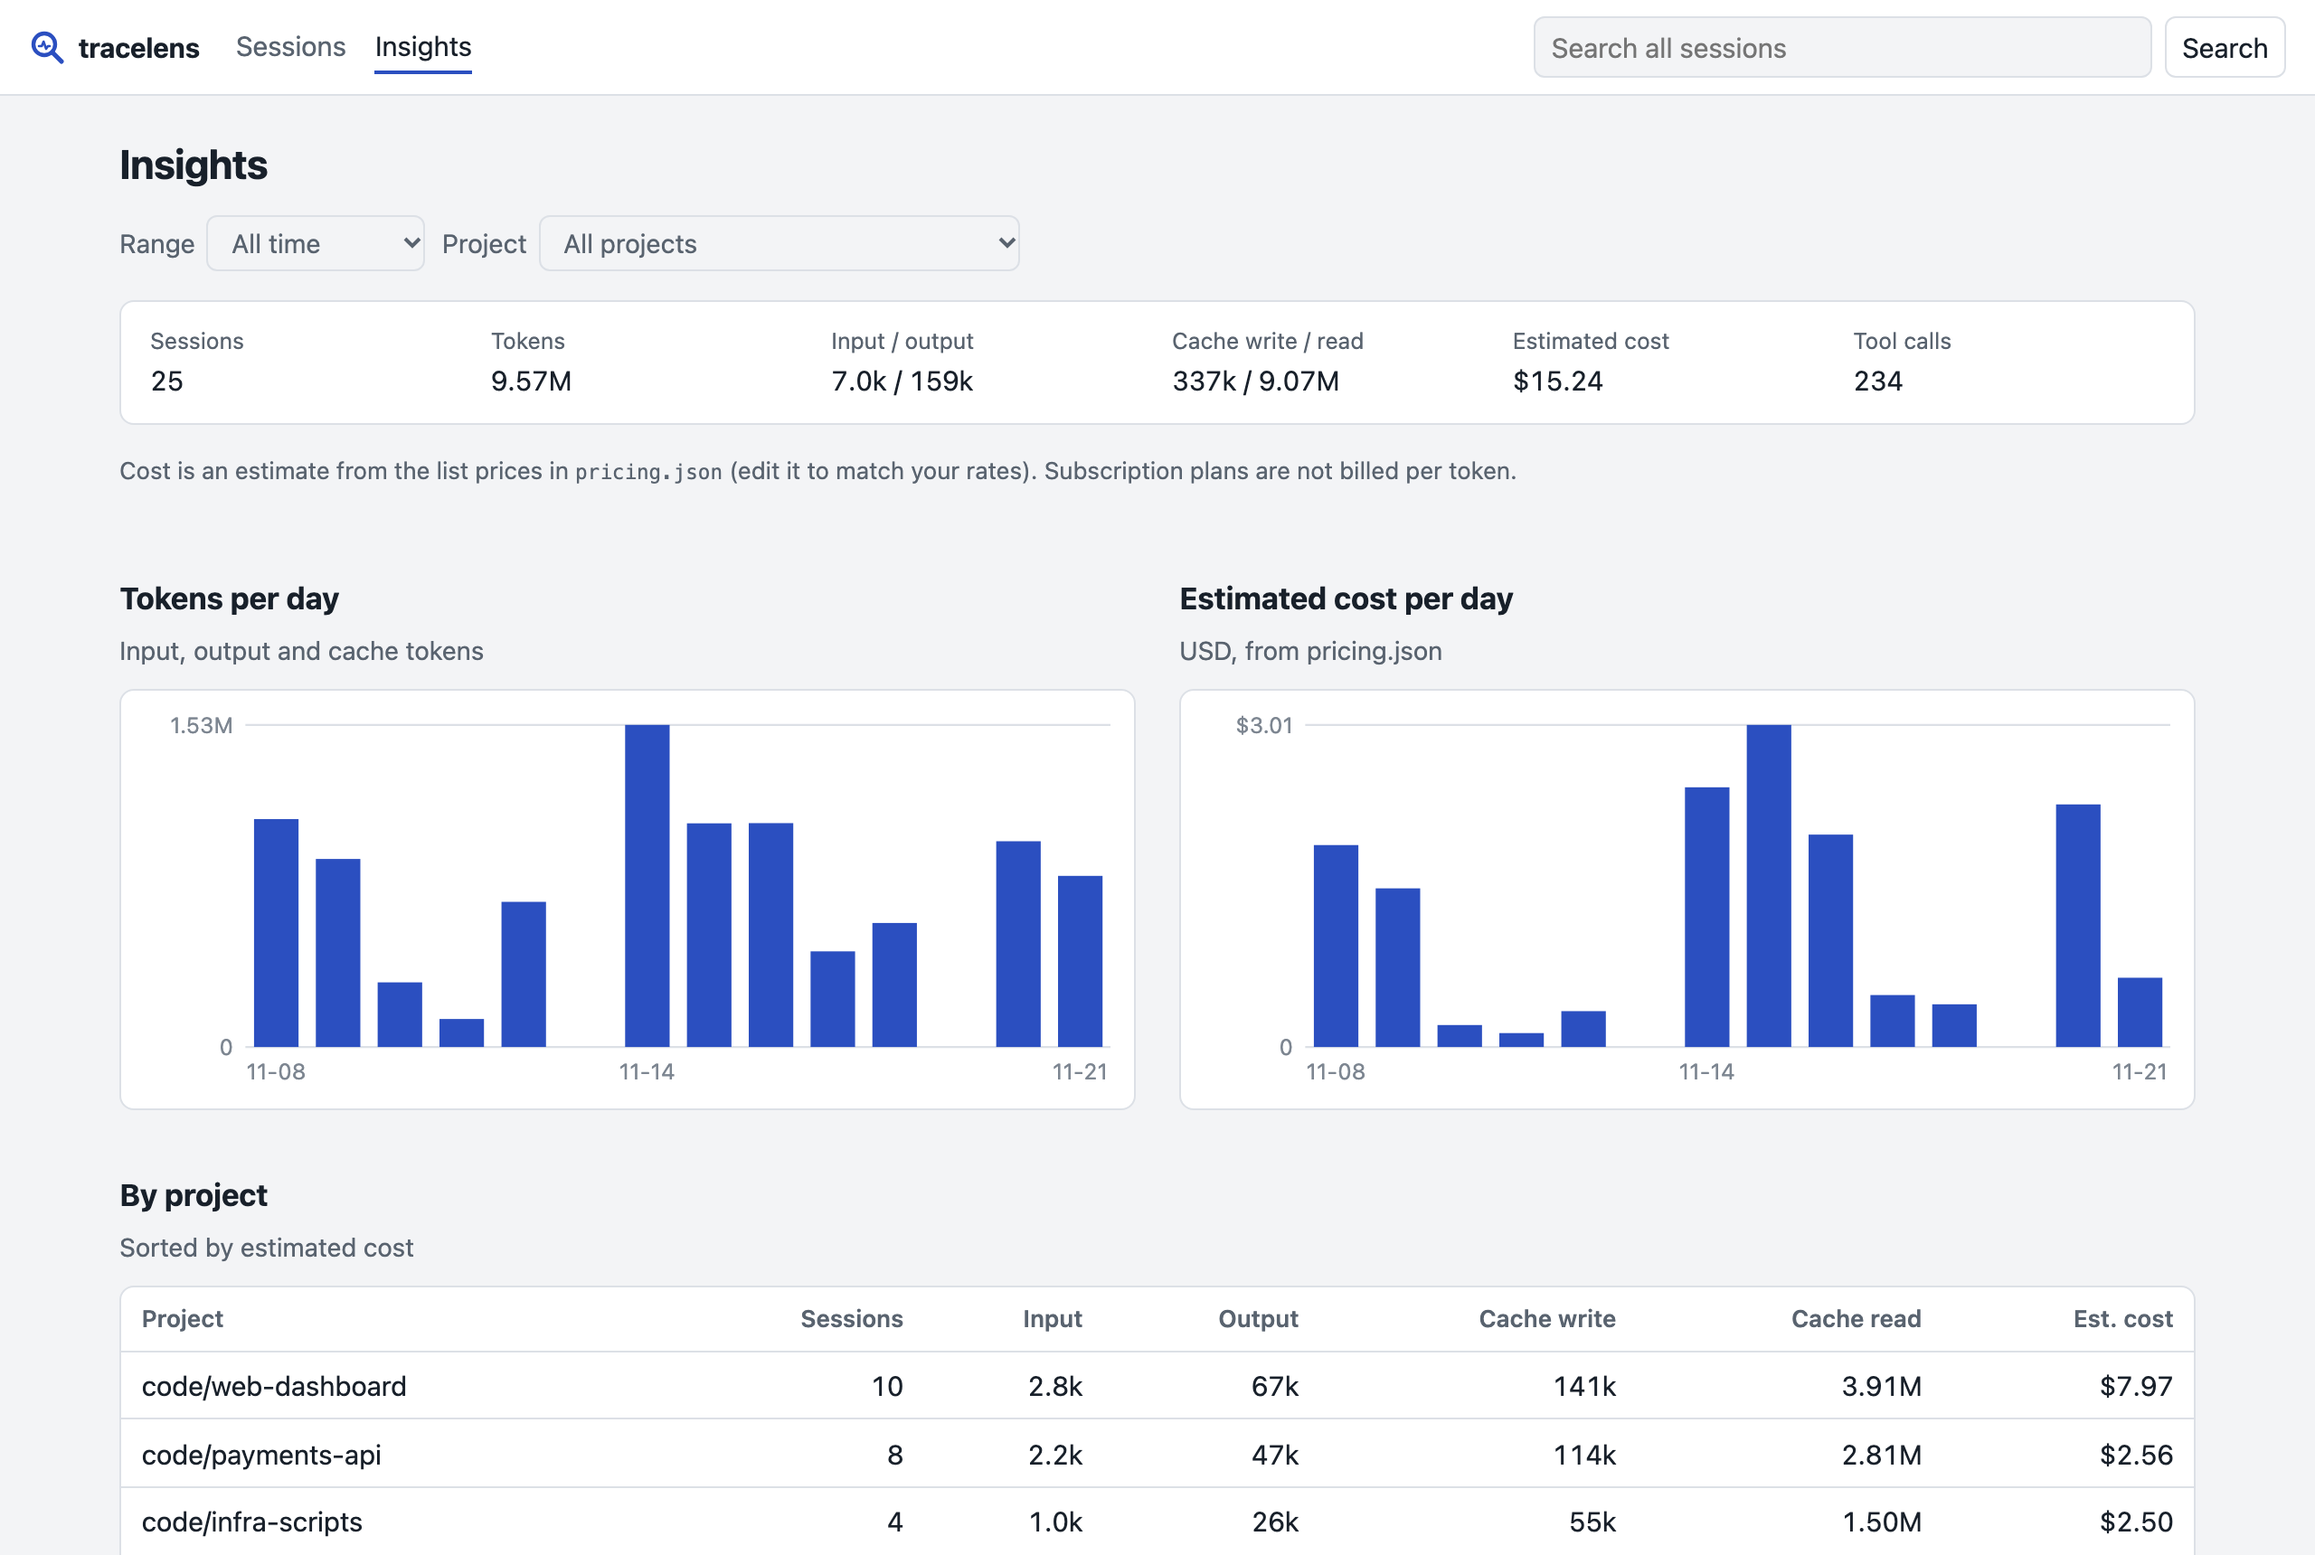
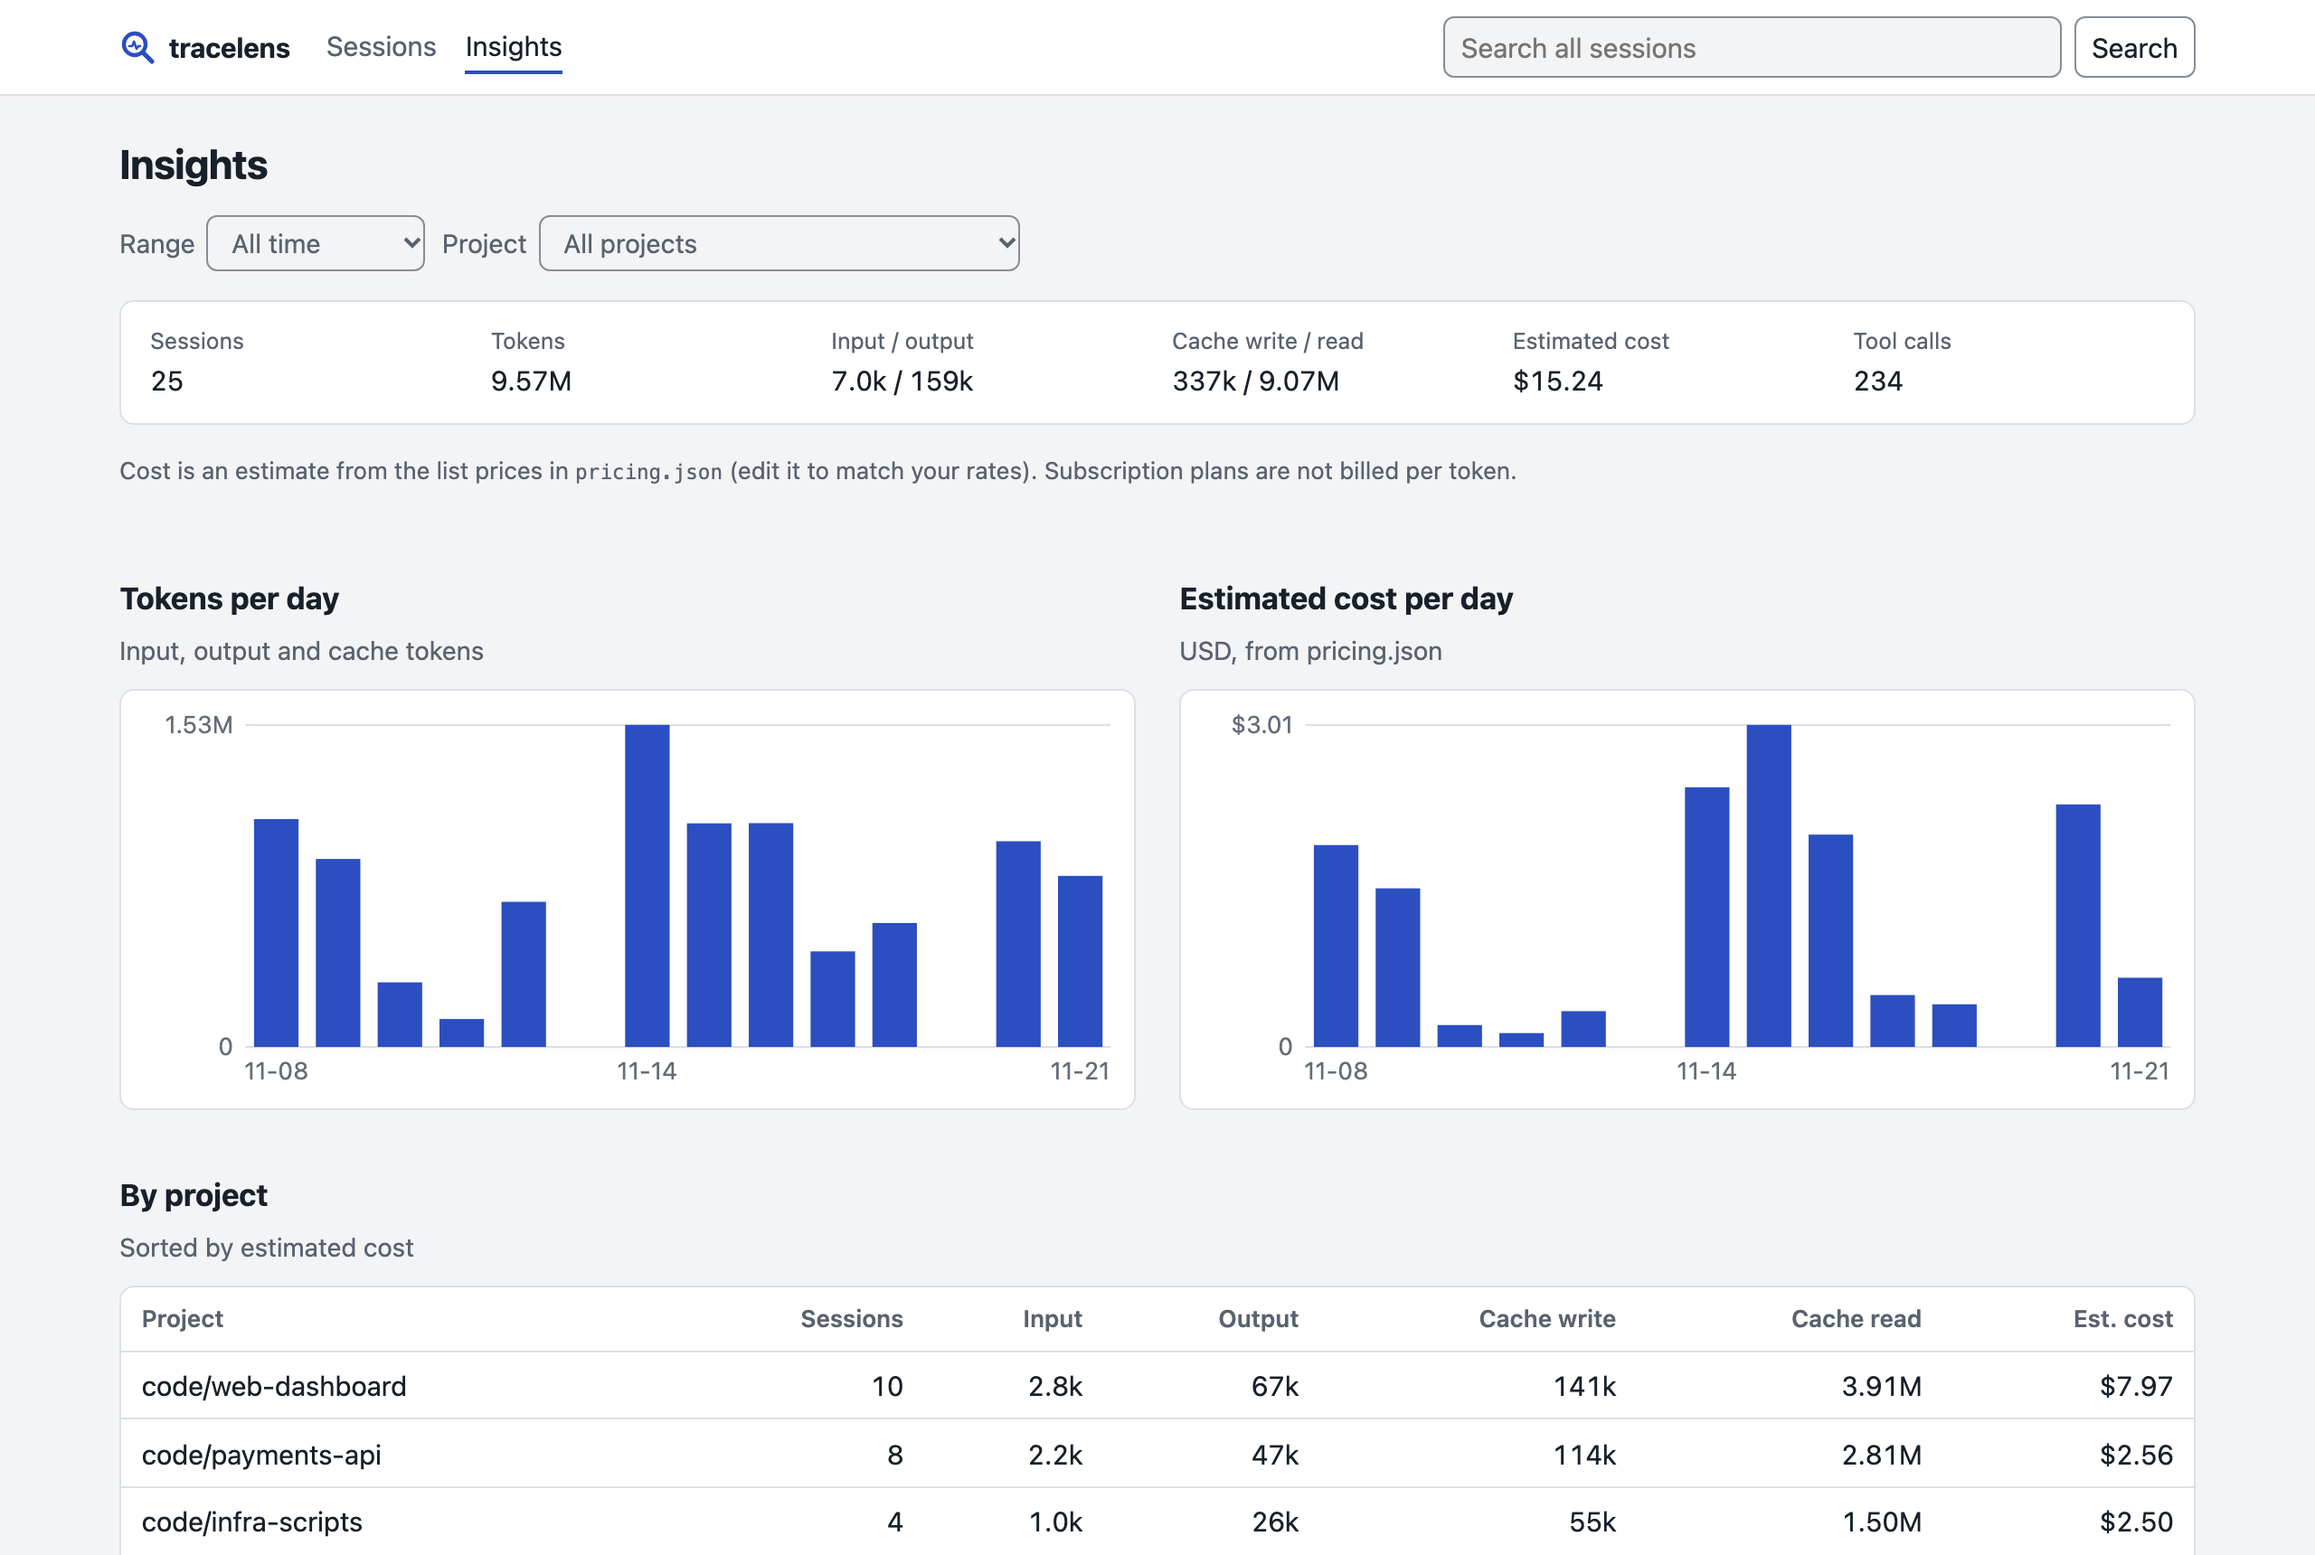
Refresh screenshots from the running demo, add a reply screenshot; README and changelog

diff --git a/README.md b/README.md
@@ -27,11 +27,13 @@ No Claude Code logs on this machine, or want to look first? `npm run demo` gener
 
 - **Session list**: project, start time, duration, models, token totals, estimated cost, tool calls and errors. Filter by project, sort by date, duration, tokens or cost.
 - **Full-text search** across every prompt, reply, tool input and tool output, including subagents. Each hit links to the exact spot in the transcript.
-- **Transcript view**: user turns, assistant text, collapsible thinking, tool calls collapsed to one line (tool, main argument, duration bar) that expand to full input and output. Subagent runs are nested under the Task call that started them. Failed tool calls and API errors are marked in red, and the header links to the first error.
+- **Transcript view**: user turns, assistant replies rendered as Markdown (headings, lists, tables, code blocks; links only for http(s), images never loaded), collapsible thinking, tool calls collapsed to one line (tool, main argument, duration bar) that expand to full input and output. Subagent runs are nested under the Task call that started them. Failed tool calls and API errors are marked in red, and the header links to the first error.
 - **Insights**: tokens and estimated cost per day, per project and per model; most-used tools with error counts and timings; the slowest tool calls; the files edited most often. Filter by time range and project.
 - **Export** a session as Markdown or as a single self-contained HTML file, from the CLI or the session page, optionally with paths and secrets redacted.
 - **Defensive parsing**: records it does not recognise, and lines that are not valid JSON, are shown raw in the transcript instead of breaking the page.
-- Light and dark themes (follows your system), works on a phone-sized screen, no JavaScript frameworks and no runtime dependencies.
+- Light and dark themes (follows your system), keyboard-friendly, AA text contrast, and a card layout for the session list on phone-sized screens. No JavaScript frameworks and no runtime dependencies.
+
+![The end of a transcript: tool calls with timing bars, a failed Bash call marked in red, and the final reply rendered as Markdown](docs/screenshots/session-reply.png)
 
 ![Insights page: tokens and estimated cost per day, and usage by project](docs/screenshots/insights.png)
 
@@ -79,7 +81,7 @@ It is pattern matching, so read an export before you share it.
 ## How it works
 
 - **Discovery.** Claude Code keeps one JSONL file per session in `~/.claude/projects/<encoded-folder>/<session-id>.jsonl`. Subagent logs live either inline (records with `isSidechain: true`), in `<session-id>/subagents/*.jsonl`, or in `agent-*.jsonl` files next to the sessions. tracelens handles all three.
-- **Parsing** ([`src/claude.ts`](src/claude.ts)) turns records into a small normalized model ([`src/types.ts`](src/types.ts)): user and assistant messages, thinking, tool calls paired with their results, system events, and raw items for anything else. Claude Code writes one line per content block and repeats the message's usage on each, so usage is counted once per API message id. Claude Code's own bookkeeping is kept out of the way: `file-history-snapshot` records (checkpoint backups) are skipped, `<synthetic>` messages it writes locally add no usage, post-compaction summaries are shown as system notes rather than user turns, and files that hold nothing but summary lines are not listed as sessions. A tool call's duration is the time between the call and its result. A subagent is attached to the Task call whose `prompt` matches the subagent's first message; subagents that match nothing are listed at the end of the transcript.
+- **Parsing** ([`src/claude.ts`](src/claude.ts)) turns records into a small normalized model ([`src/types.ts`](src/types.ts)): user and assistant messages, thinking, tool calls paired with their results, system events, and raw items for anything else. Claude Code writes one line per content block and repeats the message's usage on each, so usage is counted once per API message id. Claude Code's own bookkeeping is kept out of the way: `file-history-snapshot` records (checkpoint backups) are skipped, `<synthetic>` messages it writes locally add no usage, post-compaction summaries are shown as system notes rather than user turns, and files that hold nothing but summary lines are not listed as sessions. A tool call's duration is the time between the call and its result. A subagent is attached to the Task call whose `prompt` matches the subagent's first message (in start order, so repeated identical prompts pair up correctly); subagents that match nothing are listed at the end of the transcript.
 - **Serving** ([`src/server.ts`](src/server.ts)) uses Node's `http` module and renders HTML on the server. Parsed sessions are cached and a file is re-read only when its size or modification time changes, so new sessions show up on reload.
 - **Read-only.** Log files are opened for reading only. `export -o` refuses to write inside the log folder or to any `.jsonl` file.
 - **Local only.** The server listens on 127.0.0.1, answers only requests addressed to `127.0.0.1`, `localhost` or `[::1]` on its own port (which blocks DNS-rebinding pages), only accepts GET, and sends a strict Content-Security-Policy. All transcript text is HTML-escaped. The page loads no fonts, scripts or images from the internet.
@@ -105,7 +107,6 @@ The test fixtures in `test/fixtures/projects` are hand-made and cover split assi
 ## Roadmap
 
 - Codex CLI adapter.
-- Render Markdown in assistant messages (shown as plain text today).
 - Show rewound or edited conversation branches as a tree instead of file order.
 - A search index for very large histories (search is a linear scan today).
 - CSV export of the insights tables.

diff --git a/CHANGELOG.md b/CHANGELOG.md
@@ -4,6 +4,33 @@ All notable changes to this project are documented here. The format follows [Kee
 
 ## [Unreleased]
 
+### Added (round 2, design pass)
+
+- Assistant replies render as Markdown in the web UI and the HTML export (`src/mdhtml.ts`): paragraphs, headings, fenced code, nested lists, quotes, rules, pipe tables, inline code, bold, italic and http(s) links. All text is escaped; other link schemes stay as text; images are never loaded (alt text only). User prompts are still shown exactly as typed.
+- Session list: a "Sort by" select next to the project filter; under 640px wide each session becomes a stacked card (title, project and models, start time, then labelled duration/tokens/cost/tools/errors) instead of a table cut off at the right edge.
+- Skip-to-content link.
+
+### Changed (round 2, design pass)
+
+- Faint text (timestamps, durations, chart labels) and form-control borders now meet WCAG AA contrast in light and dark themes (axe-core reported 50 contrast failures on the session page; it now reports none on any page in either theme).
+- Header content lines up with the page column instead of the window edges.
+- Tool-call "Input"/"Output" labels are no longer `<h4>` headings (they broke the heading outline with hundreds of entries).
+- The sorted column header carries `aria-sort`.
+- Model names in the insights tables stay on one line (they broke into one word per line on phones); chart labels are 1px larger.
+- A server error shows a normal page with the message instead of a plain-text response.
+- Demo data: the final assistant message uses Markdown, so the demo shows the rendering.
+
+### Fixed (round 2)
+
+- Two Task calls with the same prompt no longer swap subagents: subagents are matched in start-time order, not file-name order.
+- An old-layout `agent-*.jsonl` whose first line is longer than 64 KiB is now attached to its session (the first line is read in full, up to 16 MiB).
+
+### Notes for the next person (round 2, design pass)
+
+- Verified with Playwright screenshots at 1280px and 390px, light and dark (`scripts/screenshots.mjs`, now also `session-reply.png` and `qa/sessions-mobile-dark.png`), and axe-core 4.10 run against every page in both themes: no violations. Keyboard: Tab reaches the skip link, nav, search, filters and every tool call `<summary>`, all with a visible 2px focus ring. The UI has no animations, so there is nothing for `prefers-reduced-motion` to turn off.
+- The Markdown renderer is deliberately small; indented (non-fenced) code blocks, setext headings and HTML blocks are shown as plain paragraphs. Nesting deeper than 12 levels falls back to plain text.
+- Still open: two projects holding the same session id both link to the first one (ids are used as URLs). Still never run on a real Claude Code log; no Codex adapter; logs are held in memory.
+
 ### Fixed
 
 - `file-history-snapshot` records (Claude Code writes one before every prompt) are skipped instead of showing up as "Unrecognized event" rows and as search hits.
